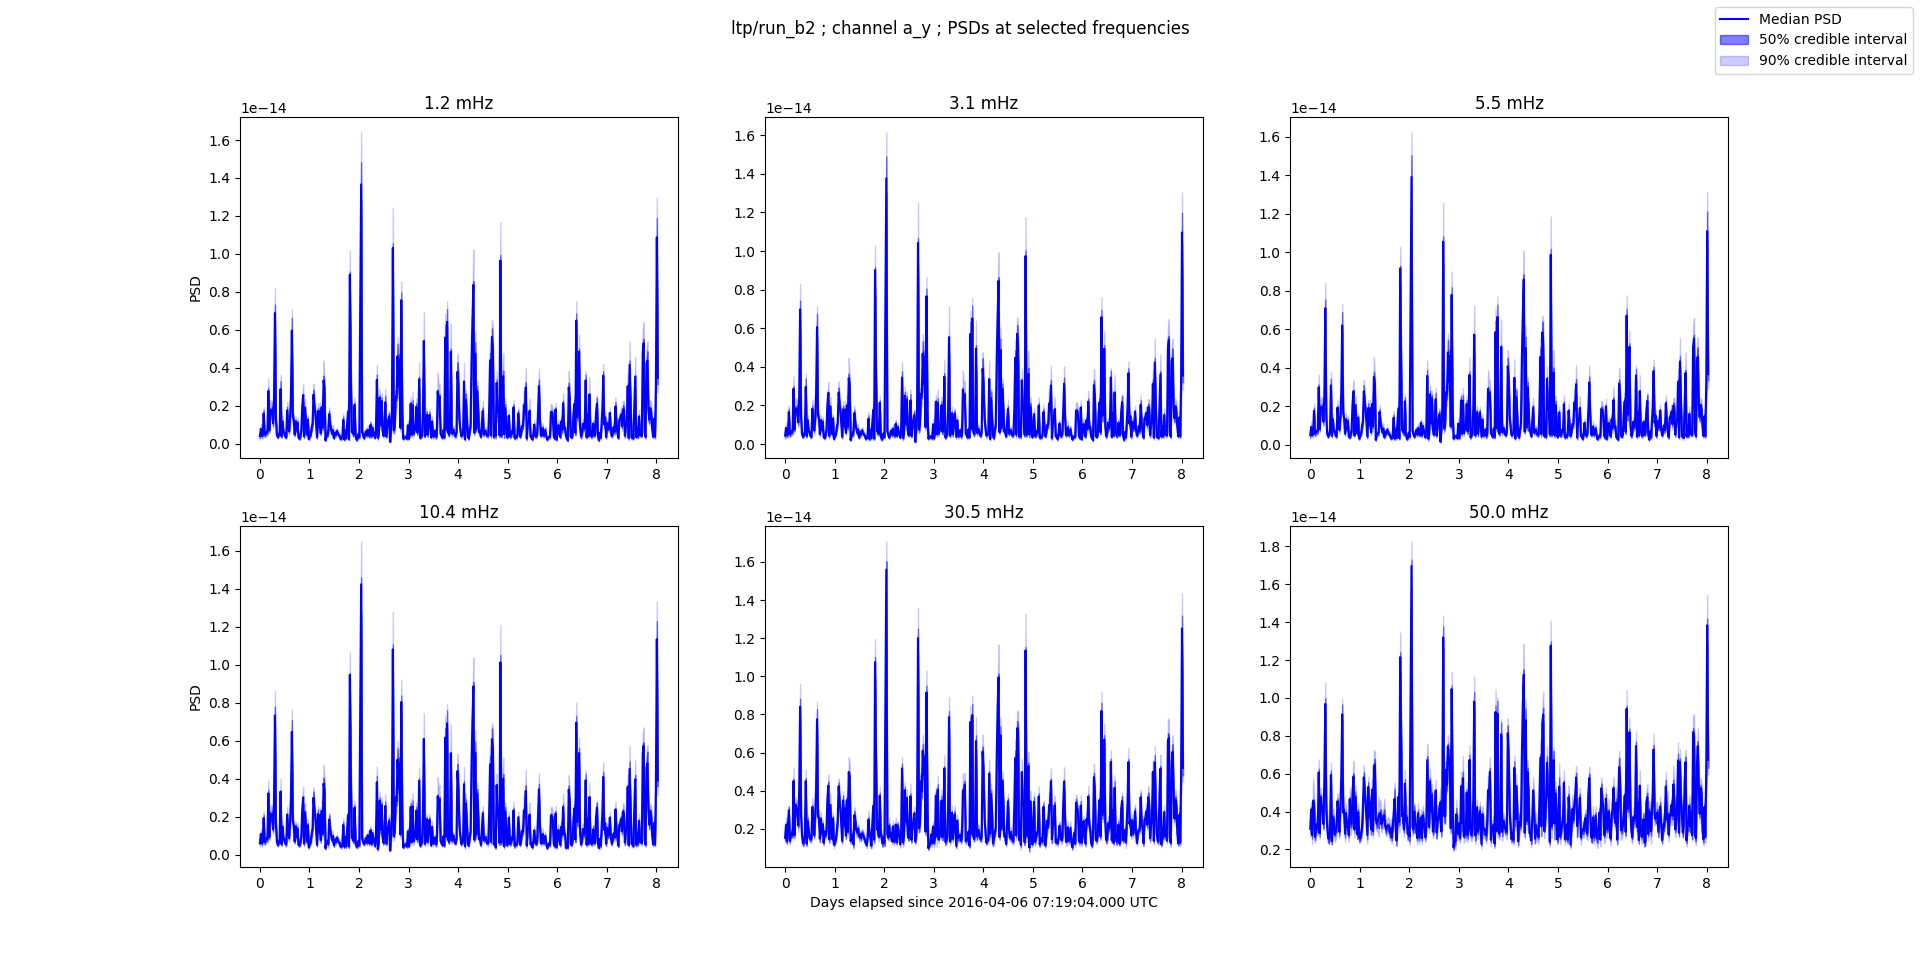
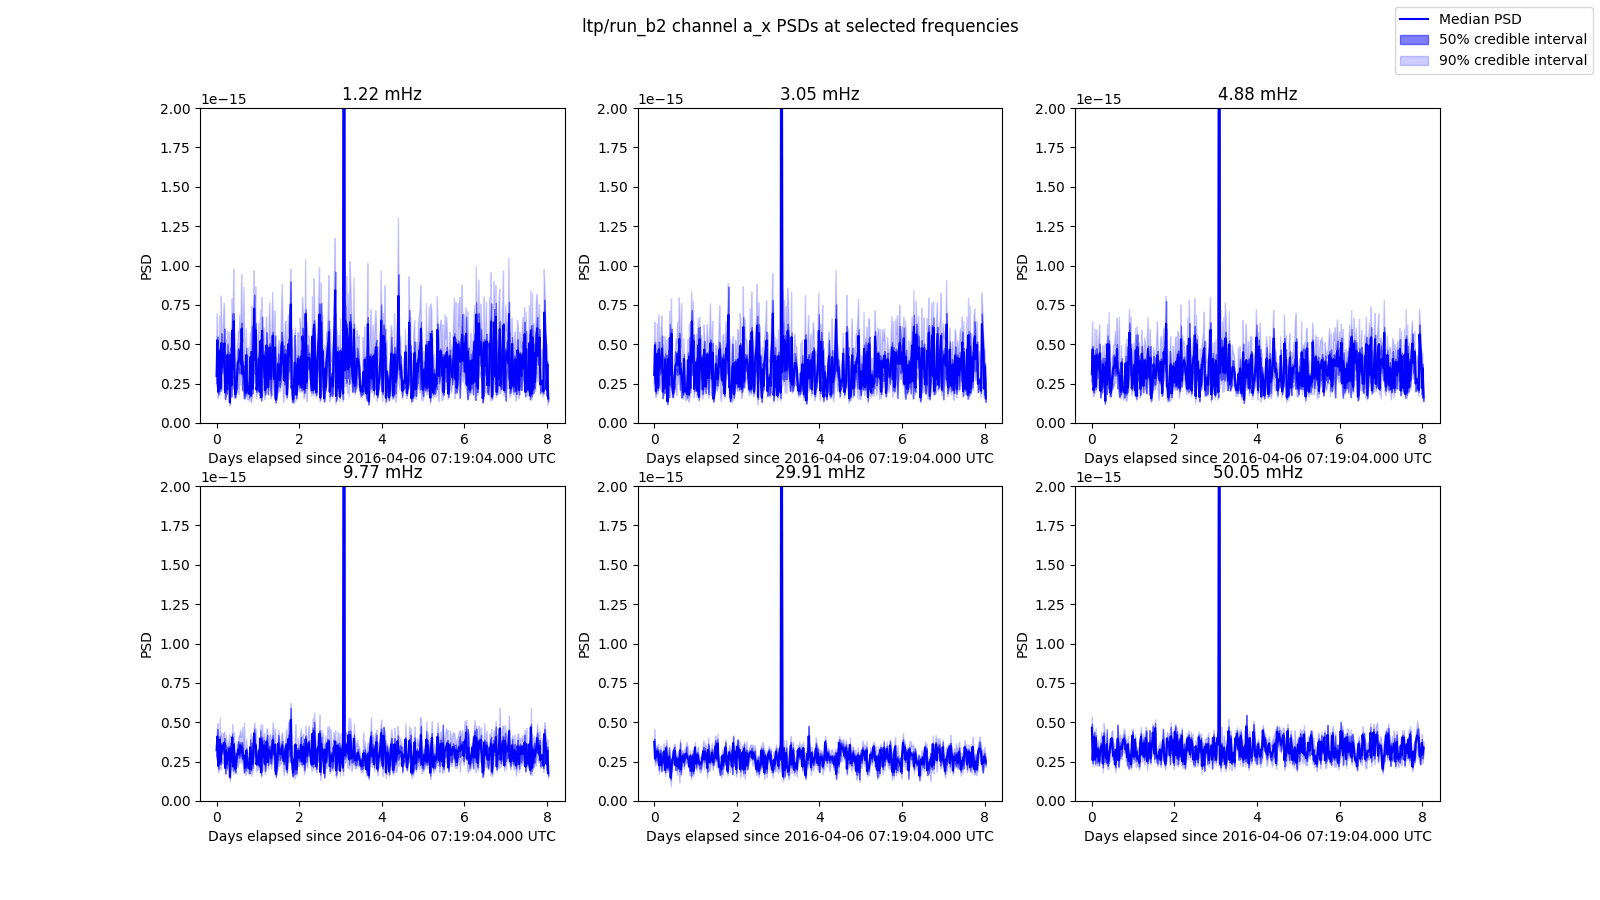
added auto scale to f slices

diff --git a/main.py b/main.py
@@ -55,12 +55,12 @@ plot.colormap(fig, axs[1],
 fig, axs = plt.subplots(2, 3, figsize=(16, 9))
 fig.suptitle(run + ' channel ' + channel + ' PSDs at selected frequencies')
 # Subplots
-plot.freq_slice(fig, axs[0,0], 1e-3, df, ylim=(0, 2e-15))
-plot.freq_slice(fig, axs[0,1], 3e-3, df, ylim=(0, 2e-15))
-plot.freq_slice(fig, axs[0,2], 5e-3, df, ylim=(0, 2e-15))
-plot.freq_slice(fig, axs[1,0], 1e-2, df, ylim=(0, 2e-15))
-plot.freq_slice(fig, axs[1,1], 3e-2, df, ylim=(0, 2e-15))
-plot.freq_slice(fig, axs[1,2], 5e-2, df, ylim=(0, 2e-15))
+plot.freq_slice(fig, axs[0,0], 1e-3, df)
+plot.freq_slice(fig, axs[0,1], 3e-3, df)
+plot.freq_slice(fig, axs[0,2], 5e-3, df)
+plot.freq_slice(fig, axs[1,0], 1e-2, df)
+plot.freq_slice(fig, axs[1,1], 3e-2, df)
+plot.freq_slice(fig, axs[1,2], 5e-2, df)
 # Legend
 handles, labels = axs[1,2].get_legend_handles_labels()
 fig.legend(handles, labels)

diff --git a/plot.py b/plot.py
@@ -147,8 +147,16 @@ def freq_slice(fig, ax, freq, summary, color='b', ylim=None):
         label='90% credible interval')
     # Plot median
     ax.plot(days_elapsed, fslice['MEDIAN'], label='Median PSD', color=color)
+    # Vertical scale
+    if ylim: 
+        ax.set_ylim(ylim)
+    else:
+        med = fslice['MEDIAN'].median()
+        hi = fslice['CI_90_HI'].median() - med
+        lo = med - fslice['CI_90_LO'].median()
+        ax.set_ylim((max(med - 5 * lo, 0), med + 5 * hi))
+    # Axis labels
     ax.set_xlabel('Days elapsed since ' + str(start_date) + ' UTC')
-    if ylim: ax.set_ylim(ylim)
     ax.set_ylabel('PSD')
     ax.title.set_text(str(np.around(freq*1000, 3)) + ' mHz')
 
